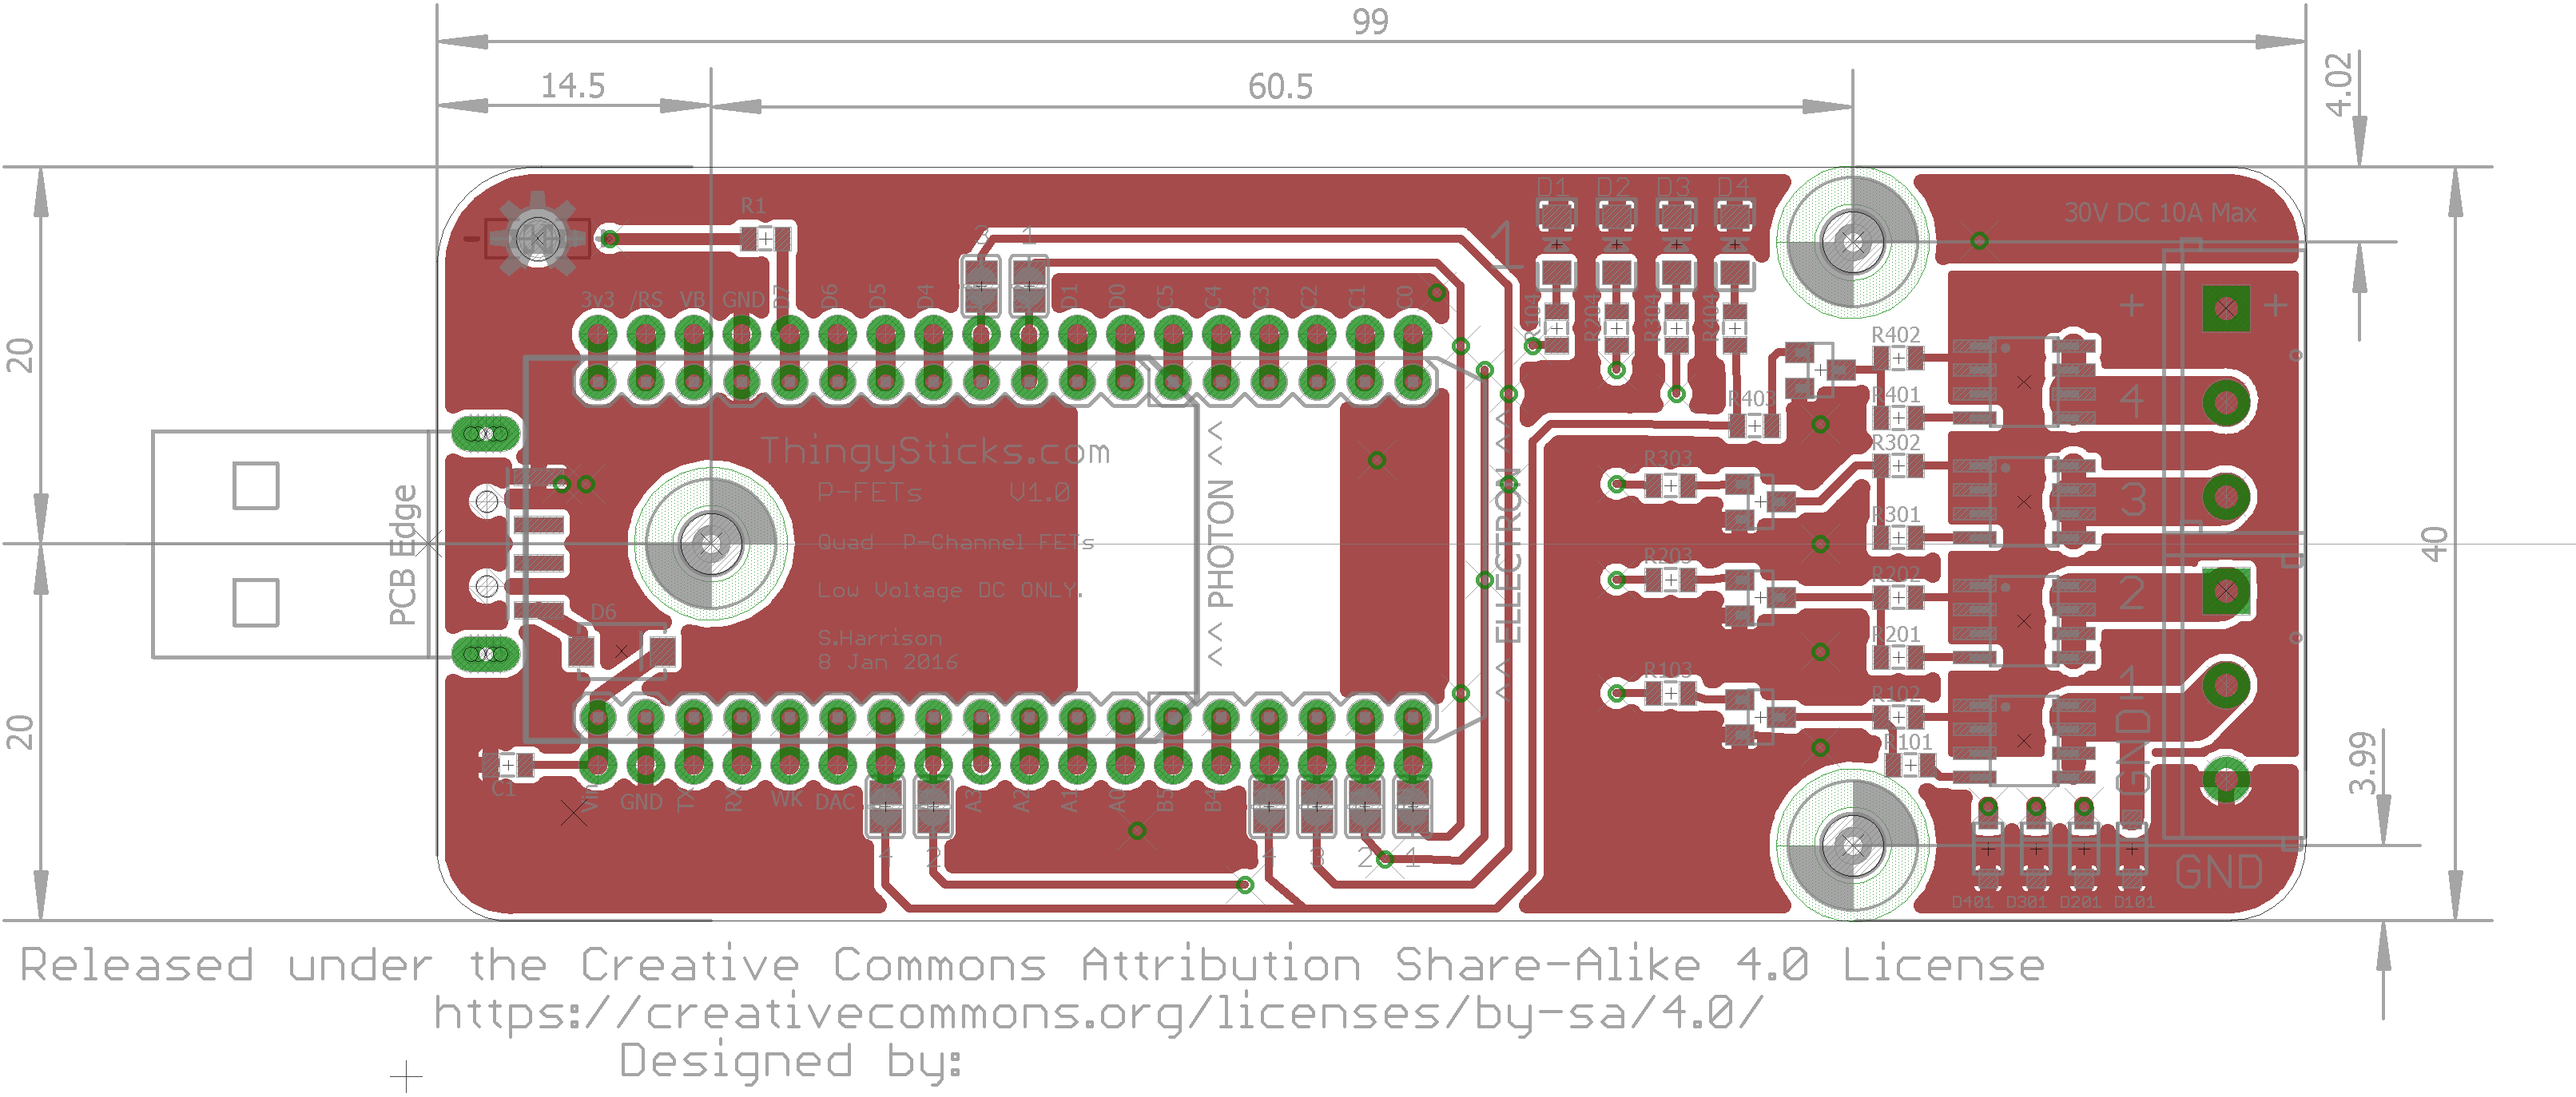
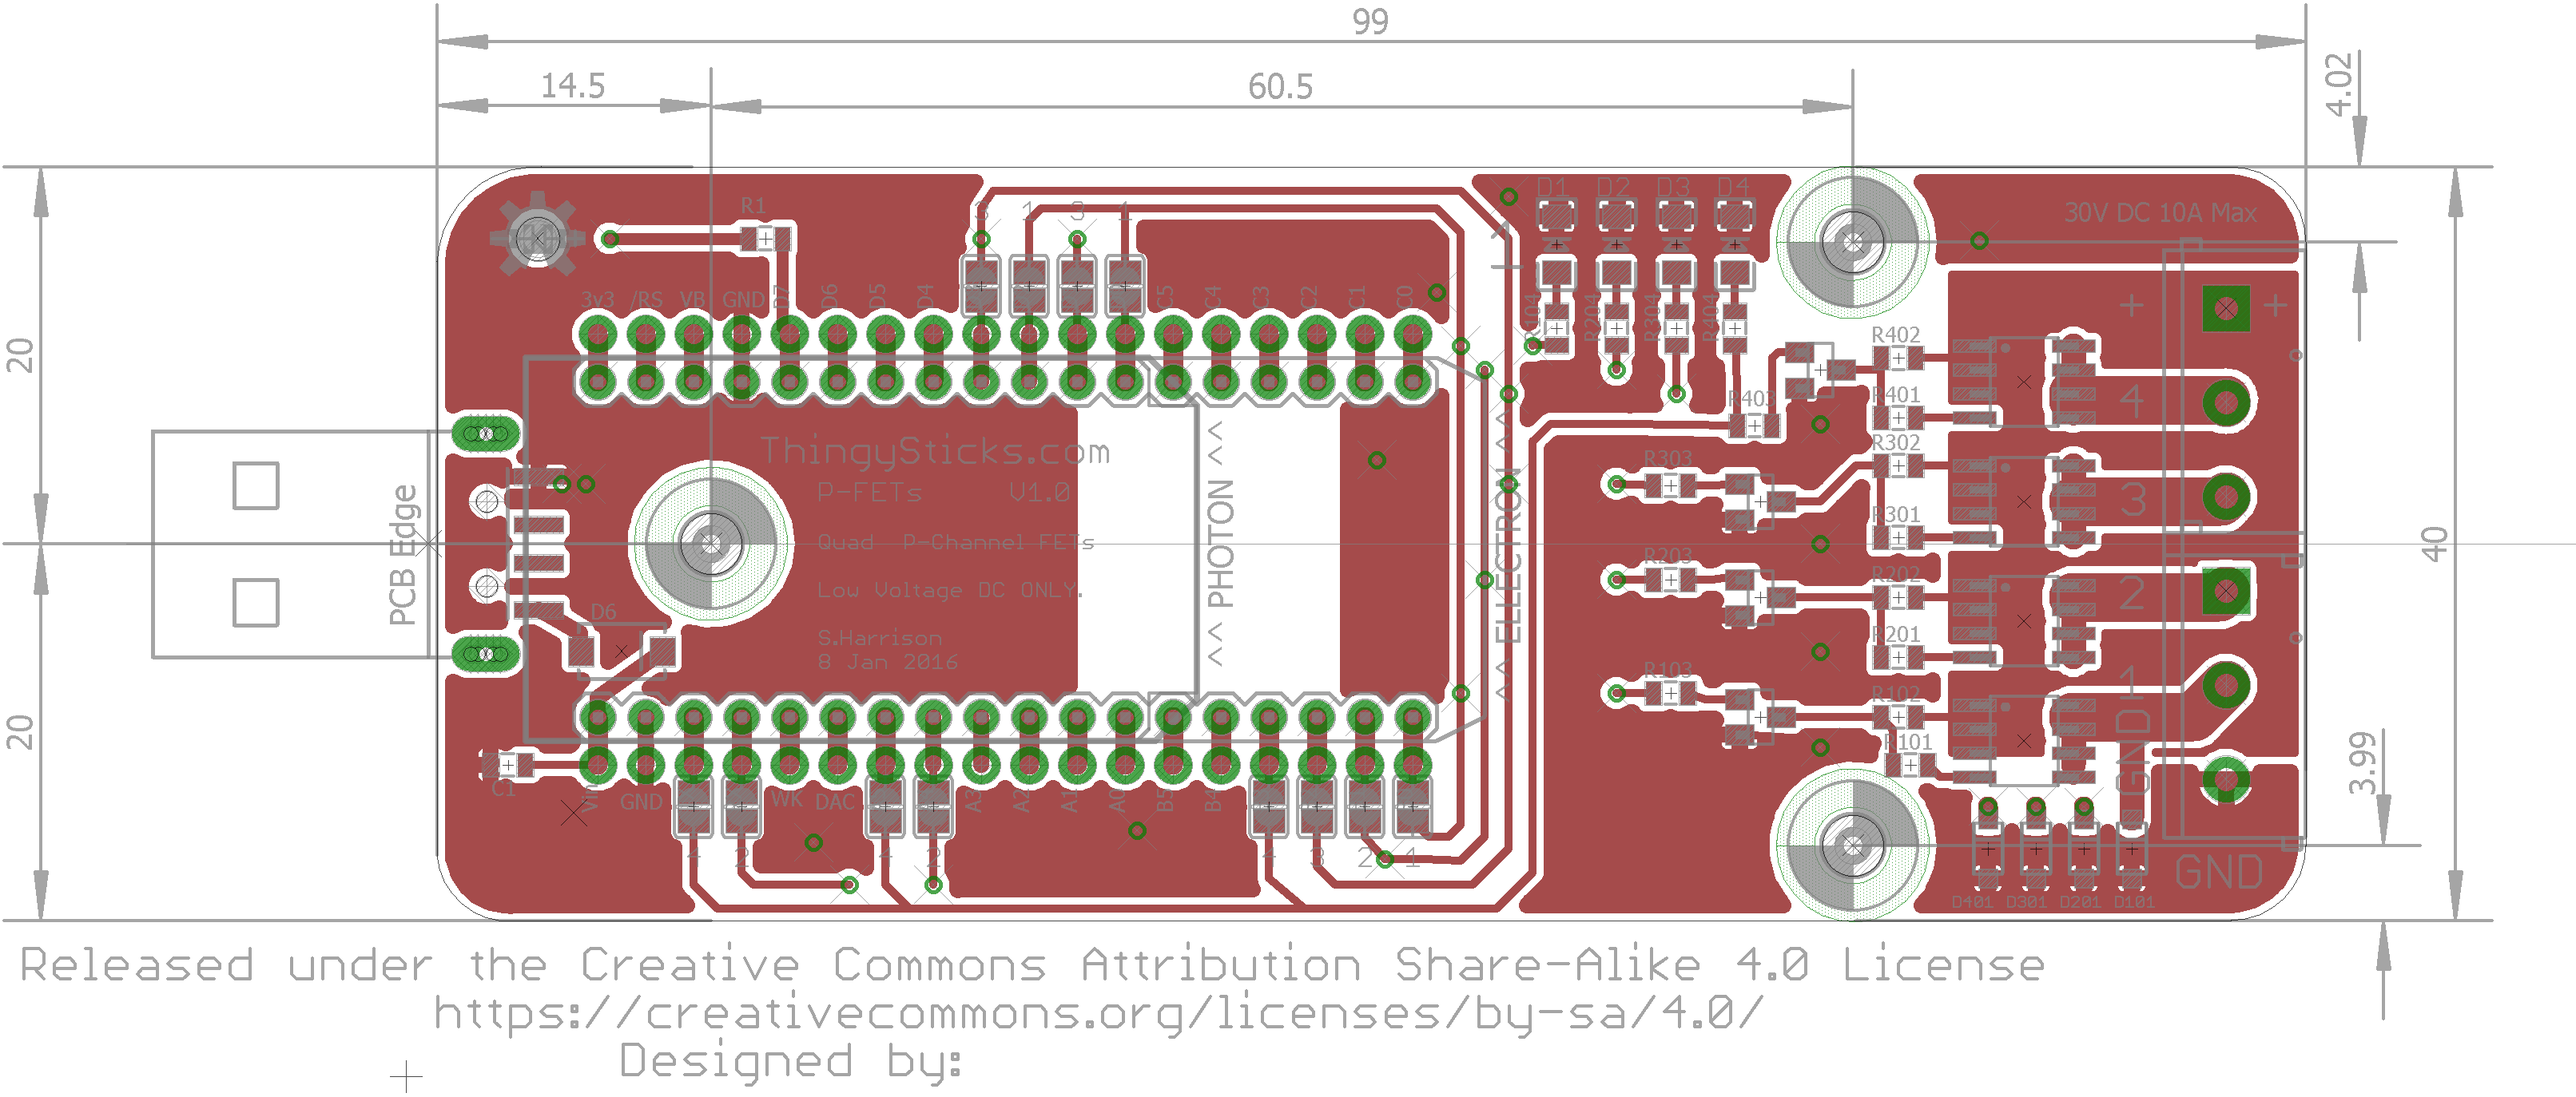
Further update to pcb layout and update source code to reflect A3->A5 change.

Changed region(s): [[0.3722, 0.1528, 0.5893, 0.3057], [0.2481, 0.7031, 0.4963, 0.8253]]

diff --git a/FETs/QuadPChannel/index.html b/FETs/QuadPChannel/index.html
@@ -191,11 +191,12 @@
 				<code>
 int Fet1 = D2; // Or B0 - Red LED
 int Fet2 = A4; // Or B1 - Yellow LED
-int Fet3 = D3; // Or B2 - Green LED
-int Fet4 = A3; // Or B3 - Buzzer
+int Fet3 = D3; // Or B2 - Green LED - A4 and D3 Share PWM.
+int Fet4 = A5; // Or B3 - Buzzer  - NB: N-CHannel FETs V1.1 uses A3 instead of A5. - A3 does not support PWM. PWM shared with D2
 
 // Output pins (as array)
-int outputs[] = {D2, A4, D3, A3};
+// NB: N-CHannel FETs V1.1 uses A3 instead of A5.
+int outputs[] = {D2, A4, D3, A5};
 
 // Particle function definitions
 int SwitchOutputOn (String args);
@@ -411,7 +412,7 @@ void publishStatus(String message) {
 				<!--
 					<a href="https://www.tindie.com/products/ThingySticks/prototype-pcb-for-particle-photon/" class="btn btn-success btn-lg">Buy the kit on Tindie.</a> -->
 
-					<a href="https://oshpark.com/shared_projects/kG05zLkA"><img src="https://oshpark.com/assets/badge-5b7ec47045b78aef6eb9d83b3bac6b1920de805e9a0c227658eac6e19a045b9c.png" alt="Order from OSH Park"></img></a>
+					<a href="https://oshpark.com/shared_projects/uvMkraSb"><img src="https://oshpark.com/assets/badge-5b7ec47045b78aef6eb9d83b3bac6b1920de805e9a0c227658eac6e19a045b9c.png" alt="Order from OSH Park"></img></a>
 				</p>	
 			</div>
 		</div>
